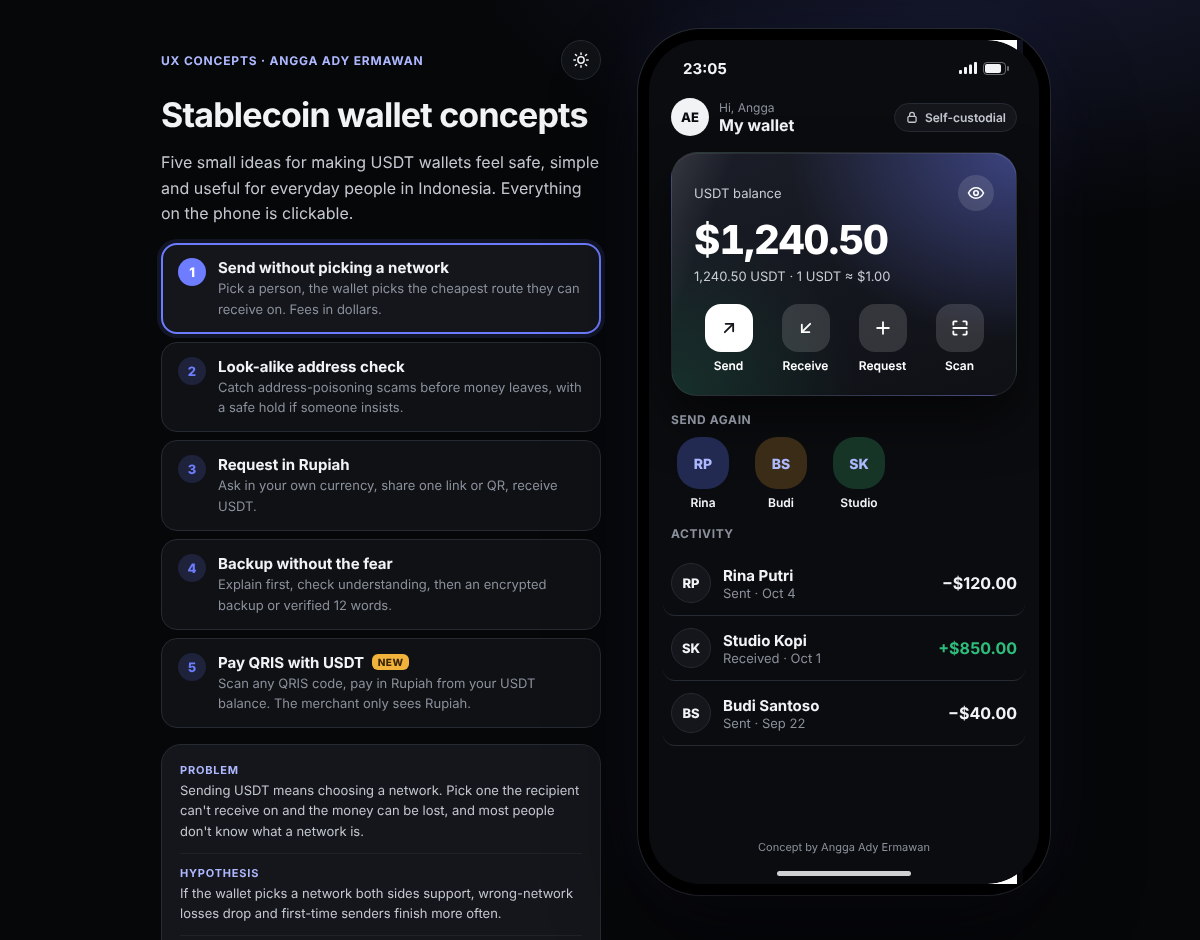
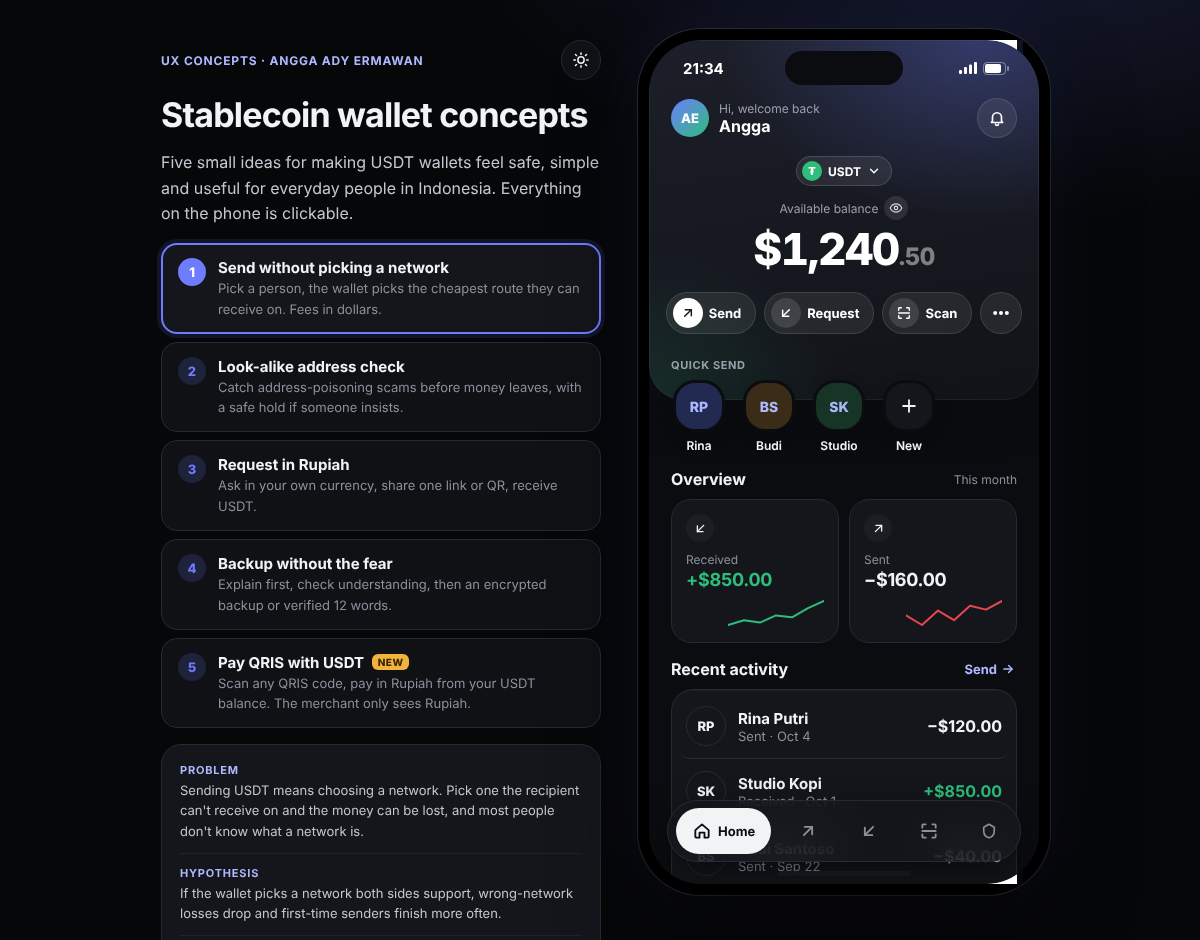
update

diff --git a/index.html b/index.html
@@ -401,8 +401,91 @@ input[type=range]::-moz-range-thumb{width:24px;height:24px;border-radius:12px;ba
 .vf.found .vfok{transform:scale(1);opacity:1}
 .vf.found .vfok path{stroke-dasharray:60;stroke-dashoffset:60;animation:draw .4s .35s ease-out forwards}
 .vfcap.swap{animation:fadeUp .3s ease both}
+
+/* ---------- modern fintech layer ---------- */
+.cta,.ghost{border-radius:28px}
+.hold .arw{position:absolute;right:8px;top:8px;width:40px;height:40px;border-radius:20px;display:flex;align-items:center;justify-content:center;background:color-mix(in srgb,currentColor 14%,transparent)}
+.hold.held .arw{opacity:0}
+.hero{margin:-58px -22px 0;padding:58px 22px 66px;border-radius:0 0 34px 34px;color:#fff;position:relative;overflow:hidden;background:radial-gradient(120% 90% at 85% 0%,rgba(110,125,255,.38) 0%,rgba(110,125,255,0) 55%),radial-gradient(80% 70% at 0% 100%,rgba(45,190,123,.18) 0%,rgba(45,190,123,0) 60%),linear-gradient(170deg,#1A1D26 0%,#0C0D11 100%);box-shadow:0 18px 40px rgba(12,13,17,.25)}
+.hero::after{content:'';position:absolute;inset:0;border-radius:inherit;border:1px solid rgba(255,255,255,.06);pointer-events:none}
+.hero.sm{padding-bottom:20px;display:flex;flex-direction:column;gap:14px}
+.hero.dim{opacity:.55}
+.hero .h{color:#fff}
+.glassbtn,.back.glass{width:40px;height:40px;border-radius:20px;border:1px solid rgba(255,255,255,.12);background:rgba(255,255,255,.08);color:#fff;display:flex;align-items:center;justify-content:center;backdrop-filter:blur(10px)}
+.glassbtn:hover,.back.glass:hover{background:rgba(255,255,255,.16);box-shadow:none}
+.avatar.me{background:linear-gradient(135deg,#6E7DFF,#2DBE7B);color:#fff}
+.balwrap{display:flex;flex-direction:column;align-items:center;gap:6px;margin-top:18px;position:relative;z-index:1}
+.curpill{display:flex;align-items:center;gap:6px;border:1px solid rgba(255,255,255,.14);background:rgba(255,255,255,.08);color:#fff;border-radius:16px;padding:4px 10px 4px 5px;font-size:12px;font-weight:700}
+.curpill:hover{box-shadow:none;background:rgba(255,255,255,.14)}
+.coin-i{font-style:normal;width:20px;height:20px;border-radius:10px;background:#2DBE7B;color:#fff;font-size:11px;font-weight:800;display:flex;align-items:center;justify-content:center}
+.avail{font-size:12px;color:#9AA0AA;display:flex;align-items:center;gap:6px;margin-top:4px}
+.eyeb{width:24px;height:24px;border-radius:12px;border:0;background:rgba(255,255,255,.1);color:#C9CCD3;display:flex;align-items:center;justify-content:center;padding:0}
+.eyeb svg{width:14px;height:14px}.eyeb:hover{box-shadow:none}
+.bigbal{font-size:44px;font-weight:800;letter-spacing:-1.5px;line-height:1.05;font-variant-numeric:tabular-nums;color:#fff}
+.bigbal .dec{font-size:24px;color:rgba(255,255,255,.45);letter-spacing:-.5px}
+.delta{font-size:12px;font-weight:700;color:#FF8F8A;animation:deltaFade 2.8s ease forwards}
+@keyframes deltaFade{0%{opacity:0;transform:translateY(-4px)}12%{opacity:1;transform:none}75%{opacity:1}100%{opacity:0}}
+.gacts{display:flex;gap:8px;margin-top:14px}
+.gbtn{display:flex;align-items:center;gap:6px;height:42px;padding:0 14px 0 6px;border-radius:21px;border:1px solid rgba(255,255,255,.12);background:rgba(255,255,255,.08);color:#fff;font-size:13px;font-weight:700;backdrop-filter:blur(10px)}
+.gbtn svg{width:30px;height:30px;padding:7px;border-radius:15px;background:rgba(255,255,255,.12)}
+.gbtn:first-child svg{background:#fff;color:#15171C}
+.gbtn.round{width:42px;padding:0;justify-content:center}
+.gbtn.round svg{background:none;padding:0;width:20px;height:20px}
+.gbtn:hover{box-shadow:none;background:rgba(255,255,255,.15)}
+.qsend{margin-top:-58px;position:relative;z-index:2}
+.qlabel{font-size:11px;font-weight:700;color:#9AA0AA;text-transform:uppercase;letter-spacing:.6px;margin-bottom:8px}
+.qrow{display:flex;gap:14px}
+.qrow .q{width:56px;color:var(--ink)}
+.qrow .q span{font-size:12px;font-weight:600}
+.qrow .avatar{width:52px;height:52px;border:3px solid var(--ground);box-shadow:0 6px 16px rgba(12,13,17,.18)}
+.qrow .avatar.add{background:var(--card);color:var(--ink);border:3px solid var(--ground)}
+.sech{display:flex;justify-content:space-between;align-items:center;margin-bottom:10px}
+.sech b{font-size:16px}
+.sech .link{display:flex;align-items:center;gap:4px;min-height:auto}
+.sech .link svg{width:14px;height:14px}
+.ovc{background:var(--card);border:1px solid var(--line);border-radius:20px;padding:14px;display:flex;flex-direction:column;gap:2px;position:relative;overflow:hidden}
+.ovi{width:28px;height:28px;border-radius:14px;background:var(--soft);display:flex;align-items:center;justify-content:center;margin-bottom:8px}
+.ovi svg{width:15px;height:15px}
+.ovv{font-size:18px;letter-spacing:-.3px}
+.spark{margin-top:6px;align-self:flex-end}
+.spark path{stroke-dasharray:200;stroke-dashoffset:200;animation:draw 1.2s .35s cubic-bezier(.22,1,.36,1) forwards}
+.screen.still .spark path{animation:none;stroke-dashoffset:0}
+.actl{padding:4px 14px}
+.actl .tx:last-child{border-bottom:0}
+.screen.has-tabbar{padding-bottom:110px}
+.tabbar{position:absolute;left:18px;right:18px;bottom:22px;z-index:15;height:62px;border-radius:31px;display:flex;align-items:center;justify-content:space-between;padding:0 8px;background:color-mix(in srgb,var(--card) 78%,transparent);border:1px solid var(--line);backdrop-filter:blur(18px) saturate(1.4);-webkit-backdrop-filter:blur(18px) saturate(1.4);box-shadow:0 14px 34px rgba(12,13,17,.18);animation:tabIn .55s .15s cubic-bezier(.22,1,.36,1) both}
+@keyframes tabIn{from{transform:translateY(30px);opacity:0}to{transform:none;opacity:1}}
+.tb{height:46px;min-width:46px;border-radius:23px;border:0;background:transparent;color:var(--muted);display:flex;align-items:center;justify-content:center;gap:6px;padding:0 12px;font-size:13px;font-weight:700}
+.tb:hover{box-shadow:none;color:var(--ink)}
+.tb.on{background:var(--cta);color:var(--on-cta);padding:0 16px}
+.tb.on span{animation:fadeUp .3s ease both}
+.hero .search.glass{background:rgba(255,255,255,.08);border-color:rgba(255,255,255,.12);color:#9AA0AA}
+.hero .search.glass input{color:#fff}
+.hero .search.glass input::placeholder{color:#8B919C}
+.qrow.light .avatar{border-color:var(--ground)}
+.done-screen{padding-bottom:0;background:color-mix(in srgb,var(--ground) 30%,#0C0D11)!important}
+.done-screen .hero.dim{opacity:.35;box-shadow:none}
+.screen>.succsheet{margin:auto -22px 0;background:var(--card);border-radius:32px 32px 0 0;padding:12px 22px 34px;display:flex;flex-direction:column;align-items:center;gap:10px;text-align:center;box-shadow:0 -20px 50px rgba(12,13,17,.25);animation:sheetUp .6s .05s cubic-bezier(.22,1,.36,1) both}
+.succsheet .grab{margin-bottom:8px}
+.succsheet .okc{width:76px;height:76px;margin-bottom:4px}
+.succamt{font-size:40px;font-weight:800;letter-spacing:-1.2px;font-variant-numeric:tabular-nums}
+.chipto{display:flex;align-items:center;gap:8px;background:var(--soft);border-radius:18px;padding:4px 12px 4px 4px;font-size:13px;font-weight:600}
+.chipto .avatar{width:26px;height:26px;font-size:10px}
+.succsheet .card{width:100%;padding:14px 16px}
+.succsheet .cta{margin-top:6px}
+:root[data-theme="dark"] .hero{background:radial-gradient(120% 90% at 85% 0%,rgba(110,125,255,.30) 0%,rgba(110,125,255,0) 55%),radial-gradient(80% 70% at 0% 100%,rgba(45,190,123,.14) 0%,rgba(45,190,123,0) 60%),linear-gradient(170deg,#1C1F29 0%,#111318 100%)}
+:root[data-theme="dark"] .tabbar{box-shadow:0 14px 34px rgba(0,0,0,.5)}
+/* dynamic-island toasts */
+.toast{top:11px;left:50%;right:auto;width:max-content;max-width:340px;min-height:34px;transform:translateX(-50%);background:#0B0C0F!important;color:#fff!important;border-radius:20px;padding:9px 16px;font-size:12.5px;align-items:center;border:1px solid rgba(255,255,255,.08);box-shadow:0 12px 30px rgba(0,0,0,.35);animation:islandIn .55s cubic-bezier(.34,1.3,.64,1) both;transition:none}
+.toast>*{animation:fadeUp .3s .18s ease both}
+.toast::before{content:'';width:8px;height:8px;border-radius:4px;background:#6E7DFF;flex-shrink:0}
+.toast.ok::before{background:#2DBE7B}.toast.bad::before{background:#FF5A52}
+.toast.banner{padding:10px 14px;border-radius:24px}.toast.banner::before{display:none}
+.toast.out{animation:islandOut .35s cubic-bezier(.4,0,1,1) forwards;transform:translateX(-50%);opacity:1}
+@keyframes islandIn{from{clip-path:inset(0 calc(50% - 59px) calc(100% - 34px) calc(50% - 59px) round 17px);opacity:.6}to{clip-path:inset(0 0 0 0 round 20px);opacity:1}}
+@keyframes islandOut{to{clip-path:inset(0 calc(50% - 59px) calc(100% - 34px) calc(50% - 59px) round 17px);opacity:0}}
 @media (max-width:900px){.side{position:static}}
-@media (max-width:440px){.phone{border-radius:0;box-shadow:none;height:800px}.page{padding:24px 0 48px;gap:28px}.side{padding:0 16px}.sbar,.island,.homebar{display:none}.screen{padding-top:24px}.toast{top:16px}}
+@media (max-width:440px){.hero{margin-top:-24px;padding-top:28px}.phone{border-radius:0;box-shadow:none;height:800px}.page{padding:24px 0 48px;gap:28px}.side{padding:0 16px}.sbar,.island,.homebar{display:none}.screen{padding-top:24px}.toast{top:16px}}
 @media (prefers-reduced-motion:reduce){*,*::before,*::after{animation:none!important;transition:none!important}.okc path{stroke-dashoffset:0}}
 </style>
 </head>
@@ -461,11 +544,16 @@ const icon = {
   warn: sv('<path d="M12 3l9.5 17h-19z"/><path d="M12 10v4"/><path d="M12 17.5v.5"/>', 22),
   del: sv('<path d="M21 5H9l-6 7 6 7h12a1 1 0 001-1V6a1 1 0 00-1-1z"/><path d="M12 9l6 6"/><path d="M18 9l-6 6"/>', 24, 2),
   tick: '',
+  home: sv('<path d="M4 11l8-7 8 7v8a1 1 0 01-1 1h-4v-6h-6v6H5a1 1 0 01-1-1z"/>', 20),
+  bell: sv('<path d="M6 16V11a6 6 0 0112 0v5l1.5 2h-15z"/><path d="M10 20a2 2 0 004 0"/>', 18),
+  chev: sv('<path d="M6 9l6 6 6-6"/>', 14, 2.4),
+  arrowR: sv('<path d="M5 12h14"/><path d="M13 6l6 6-6 6"/>', 18, 2.4),
+  more: sv('<circle cx="5" cy="12" r="1.2"/><circle cx="12" cy="12" r="1.2"/><circle cx="19" cy="12" r="1.2"/>', 20, 2.4),
   tickS: sv('<path d="M5 12.5l4.5 4.5L19 7.5"/>', 18, 2.8)
 };
 const backBtn = (to) => `<button class="back" data-go="${to}" aria-label="Back">${icon.back}</button>`;
 const hdr = (back, title, sub) => `<div class="row">${back ? backBtn(back) : ''}<div>${sub ? `<div class="small muted">${sub}</div>` : ''}<h2 class="h">${title}</h2></div></div>`;
-const holdBtn = (name, label, disabled = false, cls = '') => `<button class="cta hold ${cls}" data-hold="${name}" ${disabled ? 'disabled' : ''} aria-label="${esc(label)}. Press and hold to confirm"><span>${label}</span></button>`;
+const holdBtn = (name, label, disabled = false, cls = '') => `<button class="cta hold ${cls}" data-hold="${name}" ${disabled ? 'disabled' : ''} aria-label="${esc(label)}. Press and hold to confirm"><span>${label}</span><i class="arw" aria-hidden="true">${icon.arrowR}</i></button>`;
 const sheet = (name, title, inner) => `<div class="sheet-wrap" data-sheet="${name}"><div class="scrim" data-close></div><div class="sheet" role="dialog" aria-label="${esc(title)}"><div class="grab"></div><div class="h">${title}</div>${inner}</div></div>`;
 const keypad = (idr) => `<div class="pad">${['1','2','3','4','5','6','7','8','9',idr ? '000' : '.','0','del'].map((k) => `<button class="key" data-key="${k}" aria-label="${k === 'del' ? 'Delete' : k}">${k === 'del' ? icon.del : k}</button>`).join('')}</div>`;
 
@@ -517,6 +605,13 @@ const contacts = [
 ];
 const initialWallet = () => ({ bal: 1240.5, hist: [{ c: 'RP', n: 'Rina Putri', d: 'Sent · Oct 4', a: -120 }, { c: 'SK', n: 'Studio Kopi', d: 'Received · Oct 1', a: 850 }, { c: 'BS', n: 'Budi Santoso', d: 'Sent · Sep 22', a: -40 }] });
 let wallet = initialWallet();
+const bigMoney = (n) => { const [i, d] = Math.abs(n).toFixed(2).split('.'); return '$' + (+i).toLocaleString('en-US') + '<span class="dec">.' + d + '</span>'; };
+function countBig(el, to, from, ms = 1100) {
+  if (!el) return; if (reduce) { el.innerHTML = bigMoney(to); return; }
+  const t0 = performance.now(); const f = (now) => { const p = Math.min(1, (now - t0) / ms), e = 1 - Math.pow(1 - p, 3); el.innerHTML = bigMoney(from + (to - from) * e); if (p < 1) requestAnimationFrame(f); }; requestAnimationFrame(f);
+}
+const spark = (pts, color) => { const mx = Math.max(...pts), mn = Math.min(...pts), w = 96, h = 30; const d = pts.map((v, i) => (i ? 'L' : 'M') + (i * w / (pts.length - 1)).toFixed(1) + ' ' + (h - 3 - (v - mn) / (mx - mn || 1) * (h - 6)).toFixed(1)).join(' '); return `<svg class="spark" viewBox="0 0 ${w} ${h}" width="${w}" height="${h}" aria-hidden="true"><path d="${d}" fill="none" stroke="${color}" stroke-width="2" stroke-linecap="round" stroke-linejoin="round"/></svg>`; };
+const tabbar = (on) => `<nav class="tabbar" aria-label="Wallet">${[['home', 'Home', icon.home, 'tabhome'], ['send', 'Send', icon.send, 'to'], ['req', 'Request', icon.recv, 'req'], ['scan', 'Scan', icon.scan, 'scan'], ['safe', 'Backup', icon.shieldS, 'tabsafe']].map(([k, l, ic, a]) => `<button class="tb${k === on ? ' on' : ''}" data-act="${a}" aria-label="${l}">${ic}${k === on ? `<span>${l}</span>` : ''}</button>`).join('')}</nav>`;
 const popWrap = (str, n) => n ? str.slice(0, -n) + `<span class="pop">${str.slice(-n)}</span>` : str;
 const fmtTyped = (a) => { const [i, d] = a.split('.'); return '$' + (+i).toLocaleString('en-US') + (d !== undefined ? '.' + d : ''); };
 const send = {
@@ -531,28 +626,42 @@ const send = {
   },
   s: {},
   reset() { wallet = initialWallet(); this.s = { step: 'home', to: null, amt: '50', net: 'auto', sheet: null, q: '', hide: false, applied: false, shake: null }; },
+  dark() { return ['home', 'to', 'done'].includes(this.s.step); },
   route() { const s = this.s; if (s.net !== 'auto') return { k: s.net, ...nets[s.net] }; const k = s.to.acc.slice().sort((a, b) => nets[a].fee - nets[b].fee)[0]; return { k, ...nets[k] }; },
   start(c) { const s = this.s; s.to = c; s.amt = '50'; s.net = 'auto'; s.applied = false; s.step = 'amount'; },
   render() {
     const s = this.s, w = wallet;
     if (s.step === 'home') {
-      const fb = s.flipBal; s.flipBal = false;
-      const html = `<div class="screen">
-      <div class="row" style="justify-content:space-between"><div class="row" style="gap:10px"><div class="avatar sm" style="background:var(--cta);color:var(--on-cta)">AE</div><div><div class="tiny muted">Hi, Angga</div><b>My wallet</b></div></div><span class="pill">${icon.lock} Self-custodial</span></div>
-      <div class="bal">
-        <div class="row" style="justify-content:space-between;position:relative;z-index:1"><span class="small" style="color:#C9CCD3">USDT balance</span><button class="eye" data-act="hide" aria-label="${s.hide ? 'Show' : 'Hide'} balance">${s.hide ? icon.eyeOff : icon.eye}</button></div>
-        <span class="big${fb ? ' swapv' : ''}">${s.hide ? '$ • • • • •' : money(s.animBal != null ? s.animBal : w.bal)}</span>
-        <span class="small" style="color:#C9CCD3">${s.hide ? 'Hidden. Tap the eye to show' : usdtF(w.bal) + ' USDT · 1 USDT ≈ $1.00'}</span>
-        <div class="acts">${[['to', 'Send', icon.send], ['recv', 'Receive', icon.recv], ['req', 'Request', icon.plus], ['scan', 'Scan', icon.scan]].map(([k, l, ic]) => `<button class="act" data-act="${k}"><span>${ic}</span>${l}</button>`).join('')}</div>
+      const fb = s.flipBal, delta = s.delta; s.flipBal = false; s.delta = null;
+      const recv = w.hist.filter((h) => h.a > 0).reduce((a, h) => a + h.a, 0), sent = w.hist.filter((h) => h.a < 0).reduce((a, h) => a - h.a, 0);
+      const html = `<div class="screen has-tabbar">
+      <div class="hero">
+        <div class="row" style="justify-content:space-between"><div class="row" style="gap:10px"><div class="avatar sm me">AE</div><div><div class="tiny" style="color:#9AA0AA">Hi, welcome back</div><b style="color:#fff">Angga</b></div></div><button class="glassbtn" data-act="bell" aria-label="Notifications">${icon.bell}</button></div>
+        <div class="balwrap">
+          <button class="curpill" data-act="cur"><i class="coin-i">₮</i>USDT ${icon.chev}</button>
+          <div class="avail">Available balance <button class="eyeb" data-act="hide" aria-label="${s.hide ? 'Show' : 'Hide'} balance">${s.hide ? icon.eyeOff : icon.eye}</button></div>
+          <div class="bigbal${fb ? ' swapv' : ''}" id="bigbal">${s.hide ? '$ ••••••' : bigMoney(s.animBal != null ? s.animBal : w.bal)}</div>
+          ${delta ? `<div class="delta">−${money(delta)}</div>` : ''}
+          <div class="gacts">${[['to', 'Send', icon.send], ['req', 'Request', icon.recv], ['scan', 'Scan', icon.scan]].map(([k, l, ic]) => `<button class="gbtn" data-act="${k}">${ic}<span>${l}</span></button>`).join('')}<button class="gbtn round" data-act="more" aria-label="More">${icon.more}</button></div>
+        </div>
       </div>
-      <div><div class="sec">Send again</div><div class="quick">${contacts.map((c) => `<button class="q" data-quick="${c.id}"><div class="avatar" style="background:${c.col}">${c.init}</div><span>${c.name.split(' ')[0]}</span></button>`).join('')}</div></div>
-      <div><div class="sec">Activity</div>${w.hist.slice(0, 4).map((h) => `<div class="tx${h.fresh ? ' fresh' : ''}"><div class="avatar">${h.c}</div><div style="flex:1"><b style="font-size:15px">${h.n}</b><div class="small muted">${h.d}</div></div><b style="color:${h.a > 0 ? 'var(--ok)' : 'var(--ink)'}">${h.a > 0 ? '+' : '−'}${money(Math.abs(h.a))}</b></div>`).join('')}</div>
-      <div class="foot">Concept by Angga Ady Ermawan</div></div>`;
+      <div class="qsend"><div class="qlabel">Quick send</div><div class="qrow">${contacts.map((c) => `<button class="q" data-quick="${c.id}"><div class="avatar" style="background:${c.col}">${c.init}</div><span>${c.name.split(' ')[0]}</span></button>`).join('')}<button class="q" data-act="paste"><div class="avatar add">${icon.plus}</div><span>New</span></button></div></div>
+      <div><div class="sech"><b>Overview</b><span class="tiny muted">This month</span></div>
+        <div class="grid2">
+          <div class="ovc"><span class="ovi">${icon.recv}</span><span class="tiny muted">Received</span><b class="ovv" style="color:var(--ok)">+${money(recv)}</b>${spark([3, 4, 3.5, 5, 4.6, 6.5, 8], 'var(--ok)')}</div>
+          <div class="ovc"><span class="ovi">${icon.send}</span><span class="tiny muted">Sent</span><b class="ovv">−${money(sent)}</b>${spark([6, 5, 6.5, 5.5, 7, 6.6, 7.5 + Math.min(4, (sent - 160) / 40)], 'var(--bad)')}</div>
+        </div></div>
+      <div><div class="sech"><b>Recent activity</b><button class="link" data-act="to" style="text-decoration:none">Send ${icon.arrowR}</button></div><div class="card actl">${w.hist.slice(0, 4).map((h) => `<div class="tx${h.fresh ? ' fresh' : ''}"><div class="avatar">${h.c}</div><div style="flex:1"><b style="font-size:15px">${h.n}</b><div class="small muted">${h.d}</div></div><b style="color:${h.a > 0 ? 'var(--ok)' : 'var(--ink)'}">${h.a > 0 ? '+' : '−'}${money(Math.abs(h.a))}</b></div>`).join('')}</div></div>
+      <div class="foot">Concept by Angga Ady Ermawan</div></div>${tabbar('home')}`;
       w.hist.forEach((h) => (h.fresh = false));
       return html;
     }
-    if (s.step === 'to') return `<div class="screen">${hdr('home', 'Send to')}
-      <label class="search">${icon.search}<input id="q" type="search" placeholder="Search a name" value="${esc(s.q)}" aria-label="Search contacts" autocomplete="off"></label>
+    if (s.step === 'to') return `<div class="screen">
+      <div class="hero sm">
+        <div class="row">${'<button class="back glass" data-go="home" aria-label="Back">' + icon.back + '</button>'}<h2 class="h" style="color:#fff">Send to</h2></div>
+        <label class="search glass">${icon.search}<input id="q" type="search" placeholder="Search name or address" value="${esc(s.q)}" aria-label="Search contacts" autocomplete="off"></label>
+      </div>
+      <div><div class="sec">Frequently sent</div><div class="qrow light">${contacts.map((c) => `<button class="q" data-quick="${c.id}"><div class="avatar" style="background:${c.col}">${c.init}</div><span>${c.name.split(' ')[0]}</span></button>`).join('')}<button class="q" data-act="paste"><div class="avatar add">${icon.plus}</div><span>New</span></button></div></div>
       <div><div class="sec">People you've paid</div><div class="list">${contacts.map((c) => `<button class="pick" data-contact="${c.id}" data-name="${c.name.toLowerCase()}"><div class="avatar" style="background:${c.col}">${c.init}</div><div style="flex:1"><b style="font-size:15px">${c.name}</b><div class="tiny muted">${c.meta}</div></div><span class="badge">${c.badge}</span></button>`).join('')}<div class="small muted" id="none" style="display:none;padding:8px 2px">No saved contact with that name.</div></div></div>
       <button class="pick dashed" data-act="paste"><div class="avatar" style="background:var(--card);border:1px dashed var(--line3);color:var(--ink)">${icon.plus}</div><div><b style="font-size:15px">Paste a new address</b><div class="tiny muted">We check it before you can send</div></div></button></div>`;
     const r = this.route(), amt = parseFloat(s.amt) || 0, first = s.to.name.split(' ')[0];
@@ -587,10 +696,18 @@ const send = {
     if (s.step === 'sending') return `<div class="screen center" style="justify-content:center;gap:20px"><div class="xfer"><div class="avatar" style="background:var(--cta);color:var(--on-cta);width:52px;height:52px">AE</div><div class="track"><span class="tfill"></span><span class="rail"><span class="coin">$</span></span></div><div class="avatar dest" style="background:${s.to.col};width:52px;height:52px">${s.to.init}</div></div><h2 class="h">Sending ${money(amt)} to ${first}</h2>
       <div class="card tl">${['Leaving your wallet', 'Confirmed on ' + r.name, 'Arriving in ' + first + '\'s wallet'].map((t) => `<div class="tlr"><span class="dot"></span><span>${t}</span></div>`).join('')}</div>
       <p class="small muted" style="max-width:270px">You can close the app. We'll tell you both the moment it arrives.</p></div>`;
-    return `<div class="screen center" style="padding-top:84px"><div class="okc">${icon.check}</div><div class="h1">Arrived</div><p style="color:var(--ink2)">${first} received <b id="arr">${money(amt)}</b>. They've been notified.</p>
-      <div class="card tl">${[['Left your wallet', 'now'], ['Confirmed on ' + r.name, '+8s'], ['Arrived in ' + first + '\'s wallet', r.eta.replace('~', '')]].map((x) => `<div class="tlr ok"><span class="dot"></span><span>${x[0]}</span><span class="t">${x[1]}</span></div>`).join('')}</div>
-      <p class="tiny muted">Paid ${money(r.fee)} fee on ${r.name} · Receipt saved</p>
-      <button class="cta" data-act="finish">Back to wallet</button></div>`;
+    return `<div class="screen done-screen">
+      <div class="hero sm dim"><div class="row"><span class="back glass">${icon.back}</span><h2 class="h" style="color:#fff">Send to ${first}</h2></div></div>
+      <div class="succsheet">
+        <div class="grab"></div>
+        <div class="okc">${icon.check}</div>
+        <div class="small muted" style="font-weight:600">Transfer successful</div>
+        <div class="succamt" id="arr">${money(amt)}</div>
+        <div class="chipto"><div class="avatar" style="background:${s.to.col}">${s.to.init}</div>Sent to ${s.to.name}</div>
+        <div class="card tl" style="text-align:left">${[['Left your wallet', 'now'], ['Confirmed on ' + r.name, '+8s'], ['Arrived in ' + first + '\'s wallet', r.eta.replace('~', '')]].map((x) => `<div class="tlr ok"><span class="dot"></span><span>${x[0]}</span><span class="t">${x[1]}</span></div>`).join('')}</div>
+        <p class="tiny muted">Paid ${money(r.fee)} fee on ${r.name} · Receipt saved</p>
+        <button class="cta" data-act="finish">Done</button>
+      </div></div>`;
   },
   enter(step) {
     const s = this.s;
@@ -635,9 +752,12 @@ const send = {
     if (a === 'scan') { switchTo(4); return false; }
     if (a === 'sheetnet') { s.sheet = 'net'; return true; }
     if (a === 'paste') { look.reset(); look.s.from = 'send'; switchTo(1, true); return false; }
-    if (a === 'finish') { s.step = 'home'; T.later(() => toast('Balance and activity updated', 'ok'), 450); return true; }
+    if (a === 'finish') { s.step = 'home'; s.delta = parseFloat(s.amt) + this.route().fee; T.later(() => toast('Balance updated', 'ok'), 450); return true; }
+    if (a === 'tabhome') { return false; }
+    if (a === 'tabsafe') { switchTo(3); return false; }
+    if (a === 'bell' || a === 'cur' || a === 'more') { toast(a === 'cur' ? 'USDT is the only currency in this concept' : 'Not part of this concept'); return false; }
   },
-  after() { const s = this.s; if (s.step === 'home' && s.animBal != null) { const from = s.animBal; s.animBal = null; if (!s.hide) T.later(() => countUp($('.bal .big'), wallet.bal, money, 1100, from), 350); } },
+  after() { const s = this.s; if (s.step === 'home' && s.animBal != null) { const from = s.animBal; s.animBal = null; if (!s.hide) T.later(() => countBig($('#bigbal'), wallet.bal, from), 350); } },
   hold(name) { if (name === 'send') { this.s.step = 'sending'; return true; } },
   input(e) {
     if (e.target.id !== 'q') return;
